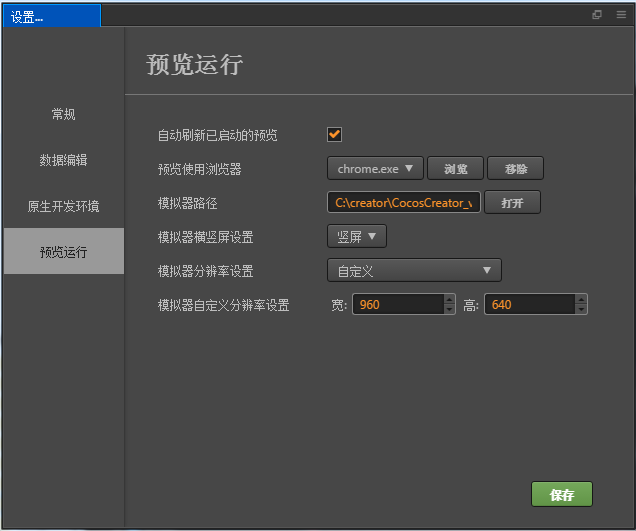
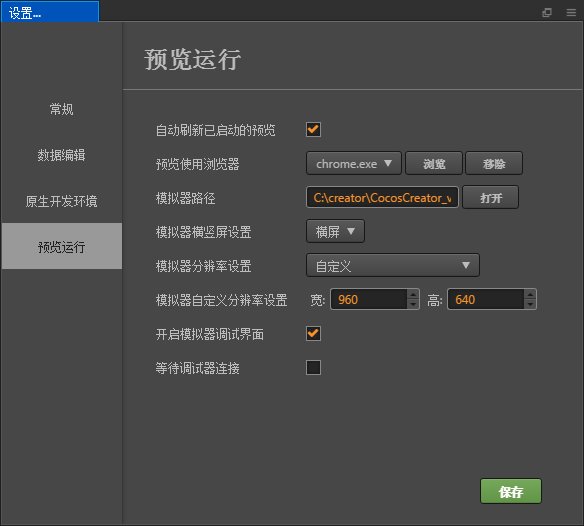
修改部分文档

diff --git a/en/getting-started/basics/editor-panels/preferences.md b/en/getting-started/basics/editor-panels/preferences.md
@@ -14,24 +14,21 @@ After modifying the settings, click the **Save** button.
 
 * **Default Node Tree State**: To switch the default state of all child nodes of the "node tree" node tree, include three options: `Expand All`, `Collapse All` and `Memory Last State`.
 
-* **IP Address**: Case the user may have multiple IP addresses on this computer,
-Manually select one and two-dimensional code as a default when previewing address address.
-This will list all native IP, You can also choose `Auto` get an IP editor automatically picked for you.
+* **IP Address**: Case the user may have multiple IP addresses on this computer. Manually select one and two-dimensional code as a default when previewing address address. This will list all native IP, You can also choose `Auto` get an IP editor automatically picked for you.
 
-* **Show native build log in console**: This item is selected, Build log will be displayed directly in the process of publishing original project Console panel.
-Non-selected, Building the release of primary logs are saved in the `%USER/.CocosCreator/logs/native.log` project, you can also use the Console Log button in the upper left corner of the panel Cocos Console Log option to open the document.
+* **Show native build log in console**: This item is selected, Build log will be displayed directly in the process of publishing original project Console panel. Non-selected, Building the release of primary logs are saved in the `%USER/.CocosCreator/logs/native.log` project, you can also use the Console Log button in the upper left corner of the panel Cocos Console Log option to open the document.
 
 * **Spin step**: In the Properties, all numeric property has a set of UP and DOWN arrows next to the input box, values that can be used to step Input:<br>
 ![step button](preferences/step-button.png).<br>
-When hovering close to the value of the property name, The cursor will turn into ![mouse cursor](preferences/mouse-cursor.jpg) such a shape, then Drag the mouse, can also according to a continuous increase or decrease the value of step amplitude.<br>
-The above two ways to modify the value，The default step size is `0.1`, Spin step says each time you click the step button or drag the mouse to change the step amplitude. For example, if you mainly use numbers to integers in the script, you can take the step size is set to `1`, can be adjusted more easily.<br>
+When hovering close to the value of the property name, the cursor will turn into ![mouse cursor](preferences/mouse-cursor.jpg) such a shape, then Drag the mouse, can also according to a continuous increase or decrease the value of step amplitude.<br>
+The above two ways to modify the value，the default step size is **0.1**, spin step says each time you click the step button or drag the mouse to change the step amplitude. For example, if you mainly use numbers to integers in the script, you can take the step size is set to **1**, can be adjusted more easily.<br>
 **Note**：After modifying the steps to refresh the Editor window (Ctrl / Cmd + R), set the Stride length will take effect
 
 * **Show dialog when meta files backed up**: When the resource to which the meta file belongs is lost, whether a dialog pops up prompts you to back up or delete the meta file. If you choose to back up, you can manually restore the resources later, and manually copy the meta file back to the project assets directory to prevent loss of important resource-related settings (such as scenarios, prefabs).
 
 * **Auto trims when importing image**: Whether the transparent pixels of the picture are automatically cropped when the picture is imported. Whatever you choose by default, you can manually set the cropping options on the picture asset after importing the picture.
 
-* **Auto sync Prefab by default**: Does the `Auto Sync option` on the prefab resource start automatically when creating a new prefab? When Auto Sync is enabled, all prefab instances in the scene are automatically synchronized when the prefab resource is saved.
+* **Auto sync Prefab by default**: Does the **Auto Sync option** on the prefab resource start automatically when creating a new prefab? When Auto Sync is enabled, all prefab instances in the scene are automatically synchronized when the prefab resource is saved.
 
 ## Data Editor
 
@@ -41,8 +38,7 @@ This category is used to set the default open mode for scripts and resources. In
 
 * **<a name="script-editor"></a>External Script Editor**: You can use the executable file of any external text editing tool as the opening method when you double-click the script file in `Explorer Explorer`. You can click the `Browse` button to select the preferred text editor executable file. And the built-in script editor is not recommended.
 
-* **External Picture Editor**: Similar to the above option, used here to set when Assets,
-double-click the picture file, open the picture with the default application path.
+* **External Picture Editor**: Similar to the above option, used here to set when Assets, double-click the picture file, open the picture with the default application path.
 
 ## Native Develop
 
@@ -50,14 +46,13 @@ This classification is used to set the build is released to the native platform 
 
 ![native develop](preferences/native-develop.jpg)
 
-* **Use Builtin JavaScript Engine**: Whether to use Cocos Creator the built-in 'engine' path as JavaScript engine path. This engine is used for Scene to render the scene,
-declarations and other built-in components engine module in the Web environment.
+* **Use Builtin JavaScript Engine**: Whether to use Cocos Creator the built-in `engine` path as JavaScript engine path. This engine is used for Scene to render the scene, declarations and other built-in components engine module in the Web environment.
 
-* **JavaScript Engine Path**: In addition to using `engine`, you can also customize to https://github.com/cocos-creator/engine to clone or fork a copy of the engine to the local anywhere, then uncheck `Use Builtin JavaScript Engine` and set the `Use Builtin JavaScript Engine` path to your custom engines. You can use the editor to customize your engine.
+* **JavaScript Engine Path**: In addition to using `engine`, you can also customize to <https://github.com/cocos-creator/engine> to clone or fork a copy of the engine to the local anywhere, then uncheck `Use Builtin JavaScript Engine` and set the `Use Builtin JavaScript Engine` path to your custom engines. You can use the editor to customize your engine.
 
 * **Use Builtin Cocos2d-x Engine**: Whether to use Cocos Creator the built-in `cocos2d-x` path as cocos2d-x c++ engine path. This engine is used for all Build native platform ( iOS, Android, Mac, Windows ) project to build and compile.
 
-* **Cocos2d-x Path**: `Use Builtin Cocos2d-x Engine` cancel previous selections, you can manually specify the path cocos2d-x. Note cocos2d-x engine used here must be downloaded from the https://github.com/cocos-creator/cocos2d-x-lite or the warehouse's fork.
+* **Cocos2d-x Path**: `Use Builtin Cocos2d-x Engine` cancel previous selections, you can manually specify the path cocos2d-x. Note cocos2d-x engine used here must be downloaded from the <https://github.com/cocos-creator/cocos2d-x-lite> or the warehouse's fork.
 
 * **WechatGame App Path**: Set the WechatGame App Path, See [Wechat Mini Games](../../../publish/publish-wechatgame.md#%E4%BD%BF%E7%94%A8-cocos-creator-%E5%8F%91%E5%B8%83%E5%BE%AE%E4%BF%A1%E5%B0%8F%E6%B8%B8%E6%88%8F).
 
@@ -71,8 +66,7 @@ When using **Play** button directly above the main window, you can set various o
 
 ![preview](preferences/preview.png)
 
-* **Should Auto-refresh Preview?**: When browsers or simulator have when running your scene,
-After you save the scene or recompile the script is whether you should refresh the preview device.
+* **Should Auto-refresh Preview?**: When browsers or simulator have when running your scene, after you save the scene or recompile the script is whether you should refresh the preview device.
 
 * **Preview Browser**: From the drop-down menu, select system default browser or click the **Browse** button to manually specify a path to the browser.
 
@@ -82,5 +76,8 @@ After you save the scene or recompile the script is whether you should refresh t
 
 * **Simulator Resolution**: Select a resolution from the default device as a simulator for resolution.
 
-* **Simulato Custom Resolution**: If the default resolution does not meet the requirements,
-you can manually enter the Height and Width of the screen to set the simulator resolution.
+* **Simulato Custom Resolution**: If the default resolution does not meet the requirements, you can manually enter the Height and Width of the screen to set the simulator resolution.
+
+* **Open Simulator Debugger Panel**: Open simulator debugger panel when start simulator.
+
+* **Wait For Debugger Connect**: This option is turned on when **Open Simulator Debugger Panel** is checked, and the effect of this option is to pause simulator until debugger connected.

diff --git a/zh/getting-started/basics/editor-panels/preferences.md b/zh/getting-started/basics/editor-panels/preferences.md
@@ -2,7 +2,7 @@
 
 **设置** 面板中提供各种编辑器个性化的全局设置，要打开 **设置** 窗口，请选择主菜单的 `CocosCreator -> 设置`。
 
-**设置** 由几个不同的分页组成，将各种设置分为以下几类。修改设置之后点击 **保存** 按钮。
+**设置** 部分由几个不同的分页组成，将各种设置分为以下几类。修改设置之后点击 **保存** 按钮。
 
 ## 常规
 
@@ -12,17 +12,17 @@
 
 * **默认层级管理器节点折叠状态**：切换层级管理器节点树所有子节点的默认状态，有 `全部展开`、`全部折叠` 和 `记住上一次状态` 三种选项。
 
-* **选择本机 IP 地址**：用户可以在本机有多个 IP 地址的情况下，手动选择其中之一作为预览时的默认地址和二维码地址。这里会列出所有本机的 IP，您也可以选择 `自动` 让编辑器帮您自动挑选一个 IP。
+* **选择本机 IP 地址**：用户可以在本机有多个 IP 地址的情况下，手动选择其中之一作为预览时的默认地址和二维码地址。这里会列出所有本机的 IP，您也可以选择 **自动** 让编辑器帮您自动挑选一个 IP。
 
-* **构建日志是否在控制台显示**：这一项在选中状态时，构建发布原生项目的过程日志会直接显示在控制台面板里。非选中状态时，构建发布原生项目的日志会保存在 `%USER/.CocosCreator/logs/native.log`，您也可以通过控制台左上角的日志按钮的 `Cocos Console 日志` 选项打开这份文件。
+* **构建日志是否在控制台显示**：这一项在选中状态时，构建发布原生项目的过程日志会直接显示在控制台面板里。非选中状态时，构建发布原生项目的日志会保存在 `%USER/.CocosCreator/logs/native.log`，您也可以通过控制台左上角的日志按钮的 **Cocos Console 日志** 选项打开这份文件。
 
 * **数值调节钮步长**：在属性检查器里，所有数值属性输入框的旁边都有一组上下箭头，可以用于步进输入的数值：<br>
 ![step button](preferences/step-button.png)<br>
 当鼠标悬浮在数值属性的名称附近时，光标会变成 ![mouse cursor](preferences/mouse-cursor.jpg) 这样的形状，然后左右拖动鼠标，也可以按照一定的步进幅度连续增加或减小数值。<br>
-以上两种修改数值的方式，默认的步长都是 `0.1`，而设置里 `数值调节钮步长` 这里设置的就是每次点击步进按钮或拖拽鼠标时数值变化的步长幅度。举例来说，如果您在脚本中使用的数字以整数为主，就可以把这个步长设置为 `1`，可以更方便的进行调节。<br>
+以上两种修改数值的方式，默认的步长都是 **0.1**，而设置里 **数值调节钮步长** 这里设置的就是每次点击步进按钮或拖拽鼠标时数值变化的步长幅度。举例来说，如果您在脚本中使用的数字以整数为主，就可以把这个步长设置为 **1**，可以更方便的进行调节。<br>
 **注意**：修改步长后要刷新编辑器窗口（按 Ctrl / Cmd + R），设置的步长才会生效。
 
-* **meta 文件备份时显示确认**：在 meta 文件所属的资源丢失时，是否弹出对话框提示备份或删除 meta 文件。如果选择备份，可以在稍后手动恢复资源，并将 meta 文件手动拷贝回项目 `assets` 目录，防止资源相关的重要设置（如场景、prefab）丢失。
+* **meta 文件备份时显示确认**：在 meta 文件所属的资源丢失时，是否弹出对话框提示备份或删除 meta 文件。如果选择备份，可以在稍后手动恢复资源，并将 meta 文件手动拷贝回项目 **assets** 目录，防止资源相关的重要设置（如场景、prefab）丢失。
 
 * **导入图片自动裁剪**：导入图片时，是否自动裁剪掉图片的透明像素。不管默认选择如何，导入图片之后可以在图片资源上手动设置裁剪选项。
 
@@ -36,7 +36,7 @@
 
 * **自动编译脚本**：是否自动监测项目中脚本文件的变化，并自动触发编译。如果关闭自动编译脚本选项后，可以手动通过菜单 `开发者->手动编译脚本` 或按 <kbd>F7</kbd> 来编译。
 
-* **<a name="script-editor"></a>外部脚本编辑器**：可以选用任意外部文本编辑工具的可执行文件，作为在资源管理器里双击脚本文件时的打开方式。您可以点击 `浏览` 按钮选择偏好的文本编辑器的可执行文件，也可以点击 `移除` 按钮来切换脚本编辑器。不推荐使用内置脚本编辑器。
+* **<a name="script-editor"></a>外部脚本编辑器**：可以选用任意外部文本编辑工具的可执行文件，作为在资源管理器里双击脚本文件时的打开方式。您可以点击 **浏览** 按钮选择偏好的文本编辑器的可执行文件，也可以点击 **移除** 按钮来切换脚本编辑器。不推荐使用内置脚本编辑器。
 
 * **外部图片编辑器**：和上面的选项类似，这里用来设置在资源管理器中双击图片文件时，默认打开图片用的应用程序路径。
 
@@ -77,3 +77,7 @@
 * **模拟器分辨率设置**：从预设的设备分辨率中选择一个作为模拟器的分辨率。
 
 * **模拟器自定义分辨率设置**：如果预设的分辨率不能满足要求，您可以手动输入屏幕宽高来设置模拟器分辨率。
+
+* **开启模拟器调试界面**：在模拟器预览项目时将自动打开调试窗口。
+
+* **等待调试器连接**：勾选了 **开启模拟器调试界面** 后会开启该项，该选项的作用是暂停启动过程直至调试器连接完成，用于调试加载过程。

diff --git a/en/asset-workflow/compress-texture.md b/en/asset-workflow/compress-texture.md
@@ -1,5 +1,9 @@
 # Texture Compression
 
+Cocos Creator allows you to set the compression method required by the texture directly in the editor, and then automatically compress the texture when the project is published. For the Web platform, support for exporting multiple image formats at the same time, and the engine will automatically download the appropriate format according to different browsers.
+
+## Configuring Texture Compression
+
 Cocos Creator supports importing pictures in multiple formats. However, in the actual game running, we do not recommend using the original image as a resource to load.
 
 For example, on the mobile platform may only need the original image 80% or less image quality, or the .png which does not use a Alpha Channel, can be converted into JPG format. This reduces the storage space for a large portion of the image.
@@ -14,6 +18,8 @@ PVR | Unsupport | Support iOS | Unsupport | Unsupport
 By default, Cocos Creator outputs the original image when it is built. If you need to compress an image at build time, you can select this image in the **Assets** and edit the texture format in the **Properties**.
 
 ![compress-texture](compress-texture/compress-texture.png)
+
+## Texture Compression Details
 
 Cocos Creator will find out if the compressed texture is configured when the image is built, if not, continue to find out if the default configuration is made, and if not, output the original image.
 

diff --git a/zh/asset-workflow/compress-texture.md b/zh/asset-workflow/compress-texture.md
@@ -1,5 +1,9 @@
 # 压缩纹理
 
+Cocos Creator 可以直接在编辑器中设置纹理需要的压缩方式，然后在项目发布时自动对纹理进行压缩。针对 Web 平台，支持同时导出多种图片格式，引擎将根据不同的浏览器自动下载合适的格式。
+
+## 配置压缩纹理
+
 Cocos Creator 支持导入多种格式的图片（具体见下表），但是在实际游戏运行中，我们不建议使用原始图片作为资源来加载。比如在手机平台上可能只需要原图 80% 或者更少的画质，又或者是没有使用到透明通道的 .png 可以将其转换成 .jpg，这样可以减少很大一部分图片的存储空间。
 
 图片格式 | Android | iOS | 微信小游戏 | Web
@@ -12,6 +16,8 @@ PVR | 不支持 | iOS 设备上支持 | 不支持 | 不支持
 默认情况下 Cocos Creator 在构建的时候输出的是原始图片，如果在构建时需要对某一张图片进行压缩，可以在 **资源管理器** 中选中这张图片，然后在 **属性管理器** 中对图片的纹理格式进行编辑。
 
 ![compress-texture](compress-texture/compress-texture.png)
+
+## 压缩纹理详解
 
 Cocos Creator 在构建图片的时候，会查找当前图片是否进行了压缩纹理的配置，如果没有，则继续查找是否做了默认（Default）的配置，如果没有，则最后按原图输出。
 

diff --git a/en/getting-started/faq.md b/en/getting-started/faq.md
@@ -108,3 +108,13 @@ In the main process, use `Editor.assetdb.create(url, data, callback)`. The first
 ### How to refresh resources in AssetDB in the plugin
 
 `Editor.assetdb.refresh()` provides a way to manually refresh the asset database.
+
+### Creator package APK submitted to Google Play failed, prompt API level minimum 26
+
+The Google Play statement began in August 2018, newly submitted app must be compiled with API level 26 and above. When Android builds, the three version numbers are set as follows:
+
+- `compileSdkVersion` Compile version: The version of the SDK used to compile the Java code, regardless of the minimum supported version. Can be set to 26/27/28.
+- `minSdkVersion` The minimum version supported: Decide to compile the minimum supported Android version of the app. Recommended set to 16 (Correspondence Android 4.0)
+- `targetSdkVersion` Related to the behavior of the runtime. The recommended setting is consistent with `compileSdkVersion`, or it can be set to 22 to avoid [Request App Permissions](https://developer.android.com/training/permissions/requesting).
+
+![](introduction/compile_version.png)

diff --git a/zh/getting-started/faq.md b/zh/getting-started/faq.md
@@ -109,3 +109,13 @@ return Es.through();
 ### 如何在插件中重新刷新 AssetDB 中的资源
 
 `Editor.assetdb.refresh()` 提供了一个手动刷新资源库的方法。
+
+### Creator 打包 APK 提交到 Google Play 失败，提示 API 等级最低 26？
+
+Google Play 声明 2018 年 8 月开始，新提交的应用必须使用 api level 26 及以上版本编译。Android 构建时三个版本号的设置如下：
+
+- compileSdkVersion 编译版本：编译 Java 代码时使用的 SDK 版本，和支持的最低版本无关。可以设置为 26/27/28。
+- minSdkVersion：支持的最小版本，决定编译出的应用最小支持的 Android 版本。建议设置为 16（对应 Android 4.1）。
+- targetSdkVersion：和运行时的行为有关，建议设置与 compileSdkVersion 一致，也可以设置为 22，避免 [运行时权限的问题](https://developer.android.com/training/permissions/requesting?hl=zh-cn)。
+
+![](introduction/compile_version.png)

diff --git a/en/publish/setup-native-development.md b/en/publish/setup-native-development.md
@@ -40,8 +40,7 @@ After installing Android Studio, refer to the official documentation and open th
 2. In the `SDK Tools` tab page, first check the lower right corner of the `Show Package Details`, show the version of the tool selection.
 3. In the `Android SDK Build-Tools`, select the latest build Tools version.
 4. Check the `Android SDK Platform-Tools`, `Android SDK Tools` and `Android Support Library`
-5. Check the `NDK` and ensure that the version is above 14 ("r16" version is recommended).<br>
-**Attention**: NDK-r18 has removed the GNU compiler. Please do not update the NDK to r18 for versions below Creator v2.1, otherwise it will cause the compile error.
+5. Check the `NDK` and ensure that the version is 16 and above.
 6. Take note of the path of `Android SDK Location` on top of the SDK Manager window. Later we need to fill in the location of the SDK in Cocos Creator.
 7. Click `OK` and follow the prompts to complete the installation.
 

diff --git a/zh/publish/setup-native-development.md b/zh/publish/setup-native-development.md
@@ -40,8 +40,7 @@ java -version
 2. 在 SDK Tools 分页栏，首先勾选右下角的 `Show Package Details`，显示分版本的工具选择。
 3. 在 `Android SDK Build-Tools` 里，选择最新的 build tools 版本。
 4. 勾选 `Android SDK Platform-Tools`, `Android SDK Tools` 和 `Android Support Library`
-5. 勾选 `NDK`，确保版本在 14 以上（推荐使用 r16）。<br>
-**注意**：NDK-r18 已经移除了 GNU 编译器，请 Creator v2.1 以下的版本 **不要** 将 NDK 更新到 r18，否则会导致编译报错。
+5. 勾选 `NDK`，确保版本在 r16 及以上。
 6. 记住窗口上方所示的 Android SDK Location 指示的目录，稍后我们需要在 Cocos Creator 里填写这个 SDK 所在位置。
 7. 点击 `OK`，根据提示完成安装。
 

diff --git a/en/3d/index.md b/en/3d/index.md
@@ -9,3 +9,5 @@
 - [Collision Detection](intersect.md)
 
 Cocos Creator introduced 3D support in v2.1, 3D features can greatly enrich the performance of 2D games, reduce the resource cost of 2D game. In Creator v2.1, 3D features such as 3D model rendering, 3D Camera, 3D skeletion animation, etc. are supported. At the same time, the editor natively supports parsing 3D model files in FBX format without additional import process,
+
+**Note**: Cocos Creator v2.1 still does not support 3D scene editing and can only set parameters for nodes in the **Properties**. At the same time, 3D collision detection also has not been added, if you need to set the FOV and other parameters of Camera, please switch the Camera node to 2.5D mode in the **Properties**.

diff --git a/zh/3d/index.md b/zh/3d/index.md
@@ -9,3 +9,5 @@
 - [碰撞检测](intersect.md)
 
 Cocos Creator 在 2.1 版本开始引入了 3D 的支持，3D 特性的加入可以大大丰富 2D 游戏的表现力，减轻 2D 游戏的资源开销。在 Creator 2.1 版本中，支持了 3D 模型渲染、3D Camera、3D 骨骼动画 等 3D 特性，同时编辑器原生支持解析 FBX 格式的 3D 模型文件，不需要额外的导入流程。
+
+**注意**：Cocos Creator v2.1 仍不支持 3D 场景编辑，仅能够在 **属性检查器** 中对节点进行参数设置。同时 3D 碰撞检测也还没有加入，如果需要设置 Camera 的 FOV 等参数，请在编辑器中将 Camera 所在节点切换至 2.5D 模式。
